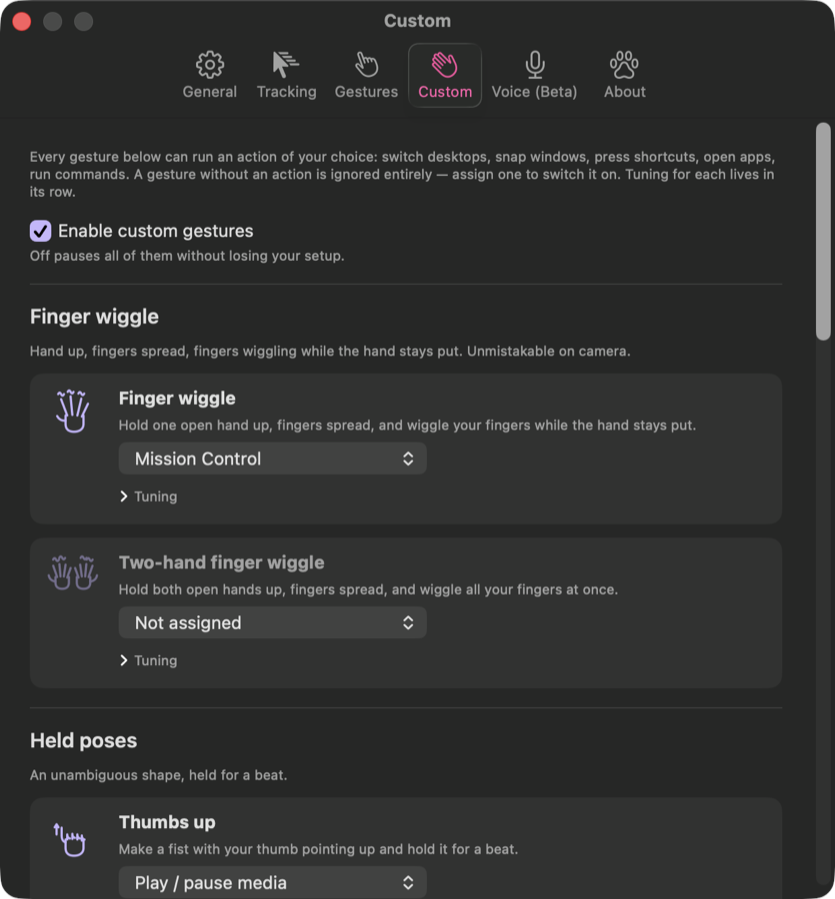
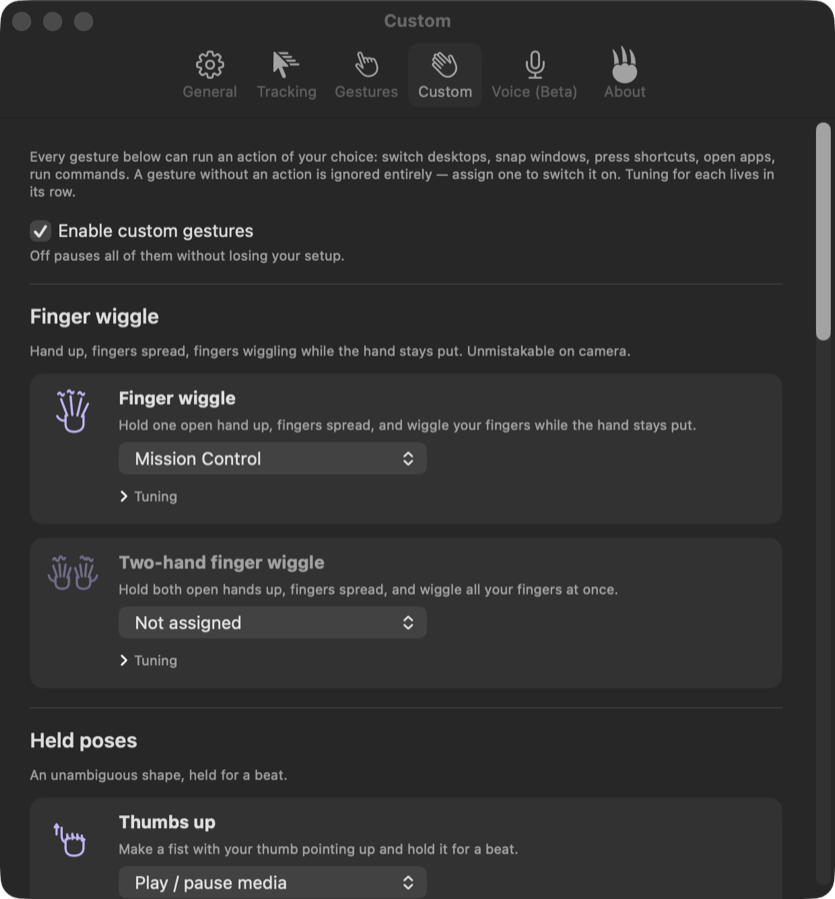
fix(settings): the About tab wears the real claw, not the generic pawprint
The menu bar's own 128px claw glyph, loaded through PawvisGlyph as a
template so it tints with the tab selection exactly like its SF-symbol
neighbors; the pawprint stays as the bare-binary fallback (no bundle, no
art). Site screenshots that show the tab bar refreshed to match.

diff --git a/Sources/Pawvis/UI/SettingsView.swift b/Sources/Pawvis/UI/SettingsView.swift
@@ -127,12 +127,28 @@ struct SettingsView: View {
                 .tabItem { Label("Voice (Beta)", systemImage: "mic") }
                 .tag(SettingsTab.voice)
             AboutTab(updater: updater)
-                .tabItem { Label("About", systemImage: "pawprint") }
+                .tabItem {
+                    // The real claw, same as the menu bar — not the generic
+                    // SF pawprint. Template, so it tints with the tab
+                    // selection like its SF neighbors; the symbol stays as
+                    // the bare-binary fallback (no bundle, no art).
+                    if let claw = Self.tabClaw {
+                        Image(nsImage: claw)
+                        Text("About")
+                    } else {
+                        Label("About", systemImage: "pawprint")
+                    }
+                }
                 .tag(SettingsTab.about)
         }
         .frame(width: 620, height: 580)
         .tint(PawvisTheme.accentUI)
     }
+
+    /// Loaded once: the body re-runs on every settings change, and
+    /// `PawvisGlyph` hands out fresh images on purpose (same reasoning as
+    /// the menu header's claw).
+    private static let tabClaw = PawvisGlyph.claw(size: 24)
 }
 
 // MARK: - General
